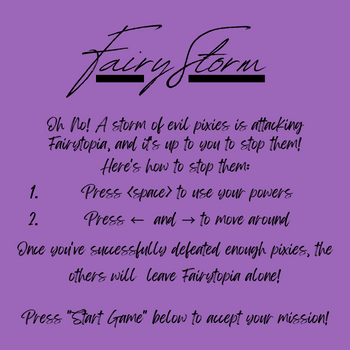
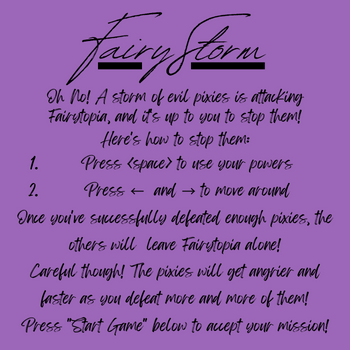
Increased Difficulty and Added Restart Option

diff --git a/MyWorld.java b/MyWorld.java
@@ -12,6 +12,7 @@ public class MyWorld extends World
     public Enemy tracker;
     Label scoreLabel;
     Label gameOverLabel = new Label("Game Over", 75);
+    int level = 1;
     /**
      * Constructor for objects of class MyWorld.
      */
@@ -35,7 +36,7 @@ public class MyWorld extends World
     public void act()
     {
         //Continuously add Enemy by row until the player "dies" or wins
-        if (score < 200)
+        if (score <= 200)
         {
            //Add ne Enemy row once rows are 100 cells apart
             if (tracker.getY() >= 100)
@@ -49,6 +50,21 @@ public class MyWorld extends World
             //Make the player win the game
             winGame();
         }
+        
+        //Allow the player to restart the game if "enter" is pressed
+        if (Greenfoot.isKeyDown("enter"))
+        {
+            setScore(0);
+            MyWorld restartScreen = new MyWorld();
+            Greenfoot.setWorld(restartScreen);
+        }
+        
+        //Allow the player to return to Title Screen if "backspace" is pressed
+        if (Greenfoot.isKeyDown("backspace"))
+        {
+            TitleScreen titleScreen = new TitleScreen();
+            Greenfoot.setWorld(titleScreen);
+        }
     }
     
     /**
@@ -59,6 +75,10 @@ public class MyWorld extends World
     {
         score+=10;
         scoreLabel.setValue(score);
+        if(score % 50 == 0)
+        {
+            level += 1;
+        }
     }
     
     /**
@@ -67,6 +87,10 @@ public class MyWorld extends World
     public void gameOver()
     {
         addObject(gameOverLabel, 200, 350);
+        Label startOverLabel = new Label("Press <enter> to try again!", 40);
+        addObject(startOverLabel, 200, 400);
+        Label homeScreenLabel = new Label("Press <backspace> to exit", 30);
+        addObject(homeScreenLabel, 200, 450);
     }
     
     /**
@@ -80,6 +104,9 @@ public class MyWorld extends World
         Label winStoryLabel = new Label("You've saved Fairytopia!", 40);
         addObject(winStoryLabel, 200, 400);
         
+        Label homeScreenLabel = new Label("Press <backspace> to exit", 30);
+        addObject(homeScreenLabel, 200, 450);
+        
         //If Fairy dies but gets enough points, "game over" disappears
         removeObject(gameOverLabel);
     }
@@ -92,16 +119,29 @@ public class MyWorld extends World
         //Create a tracker Enemy to track spacing between rows
         Enemy et = new Enemy();
         addObject(et, -500, 0);
+        et.setSpeed(level);
         tracker = et;
         
         //Create a row of enemies
         Enemy e1 = new Enemy();
+        e1.setSpeed(level);
         addObject(e1, 50, 0);
         Enemy e2 = new Enemy();
+        e2.setSpeed(level);
         addObject(e2, 150, 0);
         Enemy e3 = new Enemy();
+        e3.setSpeed(level);
         addObject(e3, 250, 0);
         Enemy e4 = new Enemy();
+        e4.setSpeed(level);
         addObject(e4, 350, 0);
-    }  
+    } 
+    
+    /**
+     * Set new score
+     */
+    public void setScore(int newScore)
+    {
+        score = newScore;
+    }
 }

diff --git a/TitleScreen.java b/TitleScreen.java
@@ -15,19 +15,29 @@ public class TitleScreen extends World
     public TitleScreen()
     {    
         // Create a new world with 400x700 cells with a cell size of 1x1 pixels.
-        super(400, 700, 1, false); 
+        super(400, 700, 1); 
         
         //Add game title
         GameTitle gameTitle = new GameTitle();
         addObject(gameTitle, 200, 350);
         
+        //Add a Fairy on the Title Screen
+        prepare();
+        
         //Add button to switch screen to Instructions screen
         Button1 instructionsButton = new Button1();
-        addObject(instructionsButton, 200, 450);
+        addObject(instructionsButton, 200, 480);
         
         //Add button to switch screen to MyWorld (aka the game screen)
         Button2 startButton = new Button2();
         addObject(startButton, 200, 550);
         
+    }
+    
+    //Prepare a Fairy on the Title Screen
+    public void prepare()
+    {
+        Fairy f1 = new Fairy();
+        addObject(f1, 200, 150);
     }
 }

diff --git a/Enemy.java b/Enemy.java
@@ -13,6 +13,9 @@ public class Enemy extends Actor
     
     //Add an animation timer to slow down animation
     SimpleTimer animationTimer = new SimpleTimer();
+    
+    //Add a speed int
+    int speed = 1;
     /**
      * Constructor for the enemy class
      */
@@ -72,8 +75,10 @@ public class Enemy extends Actor
         //Animate the enemy
         animateEnemy();
         
-        //Enemy moves downwards continuously
-        setLocation(getX(), getY()+1);
+        //Enemy moves downwards
+        int x = getX();
+        int y = getY() + speed;
+        setLocation(x, y);
         
         //"Kill" fairy
         kill();
@@ -84,5 +89,10 @@ public class Enemy extends Actor
             MyWorld world = (MyWorld) getWorld();
             world.removeObject(this);
         }
+    }
+    
+    public void setSpeed(int spd)
+    {
+        speed = spd;
     }
 }
